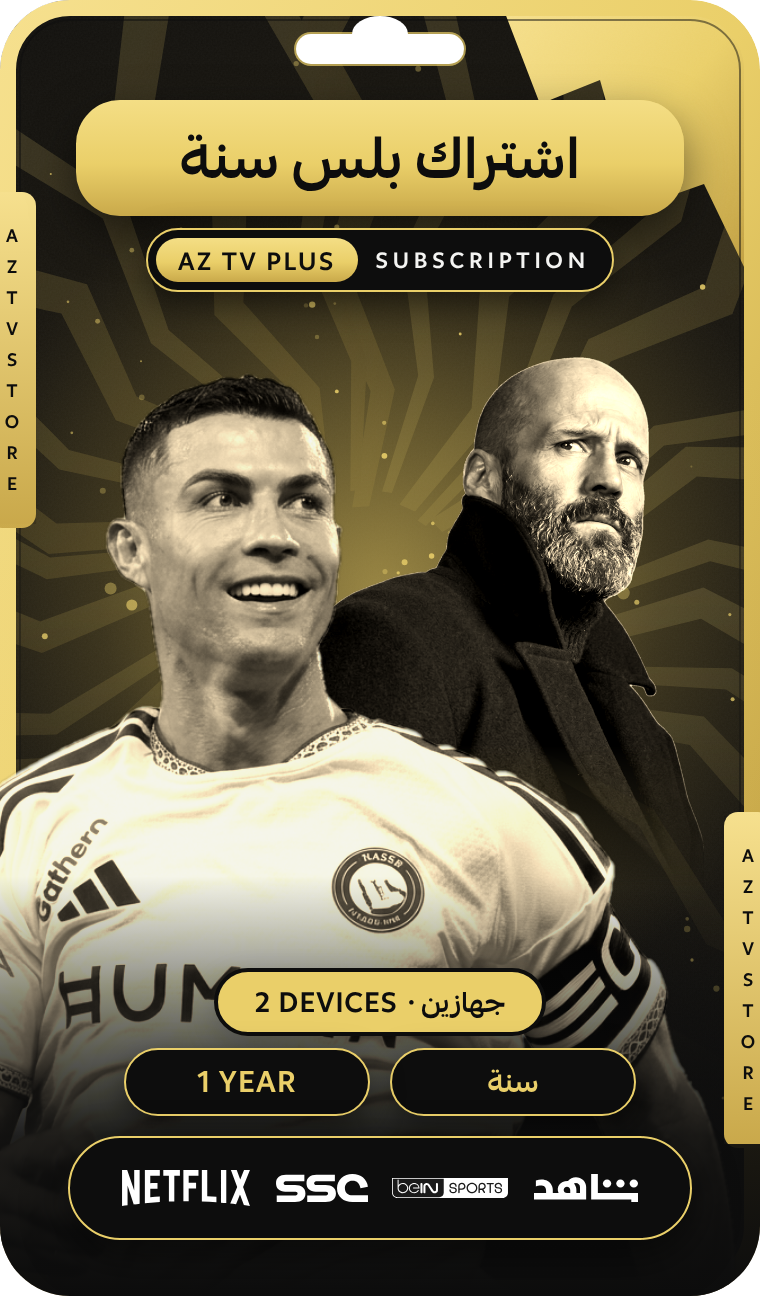
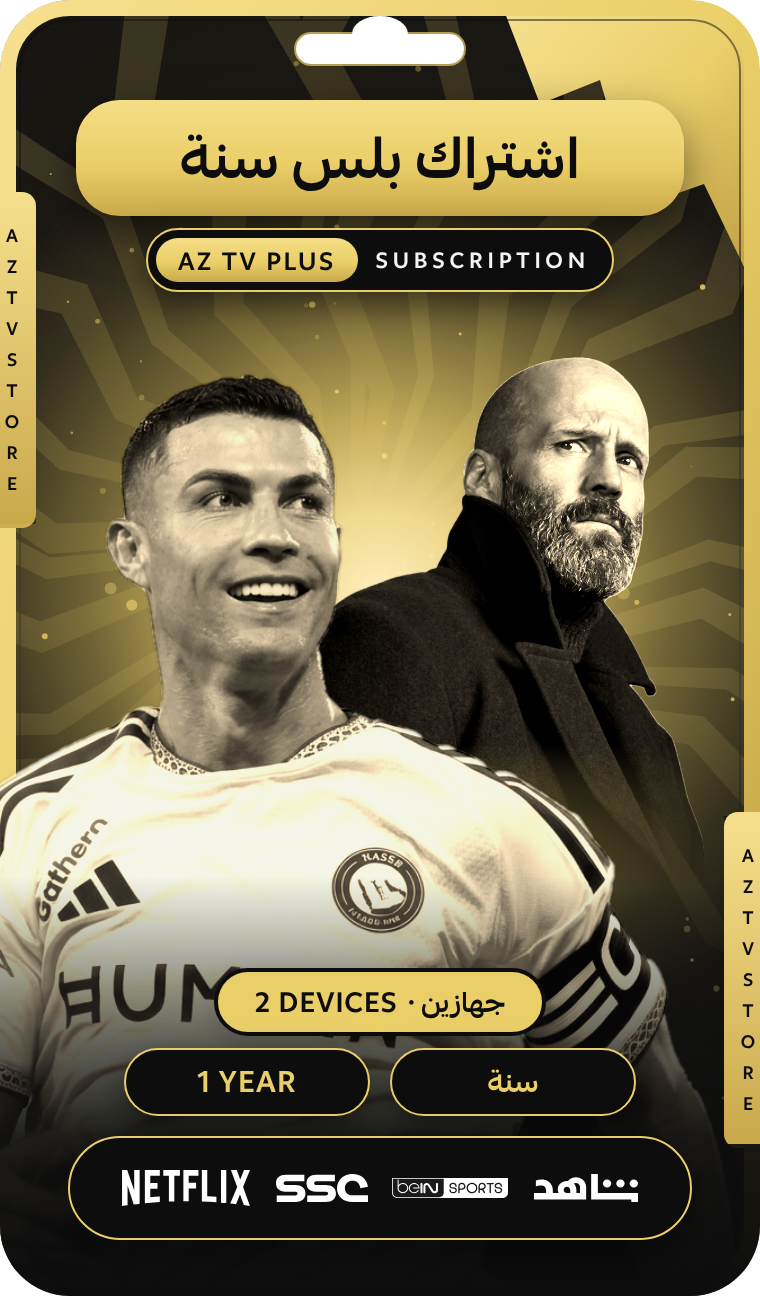
Plus cards: brighter warm light at the burst centre
Hides the knot where the rays meet behind the faces, as the white light
already does on the AZ TV cards.

Claude-Session: https://claude.ai/code/session_01FygVLnFo91EcE1sreJGJg8

Changed region(s): [[0.0, 0.216, 0.9987, 0.6481], [0.7566, 0.6173, 0.8474, 0.7099]]

diff --git a/05-design/shared/subscription-cards/card.html b/05-design/shared/subscription-cards/card.html
@@ -69,7 +69,8 @@
   .renew .heads { fill: var(--white); }
 
   /* AZ TV Plus: black card, gold accents, warm photos */
-  .plus .glow { background: radial-gradient(circle at 190px 300px, rgba(234,207,105,.55) 0, rgba(234,207,105,.35) 60px, rgba(234,207,105,.12) 140px, rgba(234,207,105,0) 220px); }
+  /* warm light at the burst centre: bright enough to hide where the rays meet behind the faces */
+  .plus .glow { background: radial-gradient(circle at 190px 300px, rgba(255,240,190,1) 0, rgba(250,226,150,.95) 44px, rgba(238,210,110,.75) 90px, rgba(234,207,105,.38) 145px, rgba(234,207,105,.12) 200px, rgba(234,207,105,0) 250px); }
   .plus .floor { background: linear-gradient(to top, rgba(13,13,13,1) 0, rgba(13,13,13,.92) 80px, rgba(13,13,13,.55) 140px, rgba(13,13,13,0) 210px); }
   .plus .photos img { filter: grayscale(1) sepia(.55) saturate(1.25) contrast(1.12) brightness(.96); }
   .plus .title { background: linear-gradient(180deg, #F4DE85, var(--gold) 55%, #C9A94A); color: var(--ink); box-shadow: 0 8px 22px rgba(0,0,0,.5); }

diff --git a/05-design/shared/subscription-cards/README.md b/05-design/shared/subscription-cards/README.md
@@ -50,7 +50,7 @@ Round 2 on both trials: portraits about 10% smaller, a small «AZ TV SUBSCRIPTIO
 Built from `card.html` in the accepted look of card 3, with the card photos 001-011 and the stars from `stars/latest-roles/`. Export all: `node render-cards.cjs` (or one: `node render-cards.cjs plus-6m`).
 
 - **AZ TV cards** (white): as card 3, unchanged.
-- **AZ TV Plus cards** (`plus: true`): the black and gold card background, gold title pill with black text, gold «AZ TV PLUS SUBSCRIPTION» line, warm gold-toned portraits, a gold light at the burst centre, a dark floor, black duration and logo pills with a gold edge.
+- **AZ TV Plus cards** (`plus: true`): the black and gold card background, gold title pill with black text, gold «AZ TV PLUS SUBSCRIPTION» line, warm gold-toned portraits, a bright warm light at the burst centre (hides where the rays meet behind the faces), a dark floor, black duration and logo pills with a gold edge.
 - **Renewal cards** (`renew: true`): no faces; three renewal arrows in a black disc at the burst centre (white on AZ TV, gold on Plus).
 - **Package line** under the title (all cards, 2026-10-24): a black pill (no side lines) with the package name in a chip, «AZ TV» (white chip) or «AZ TV PLUS» (gold chip), then «SUBSCRIPTION», or «RENEWAL» on the renewal cards. Replaces the small spaced-out «AZ TV SUBSCRIPTION» line, which was hard to read.
 - **Light on dark photos:** a photo can take `gamma` (below 1 opens the shadows of a dark face without blowing out the highlights; it also trims 1 px off the cut-out edge so no light fringe shows) next to `lift` (overall brightness). Used on cards 7 and 8, where the client found the faces too dark.
